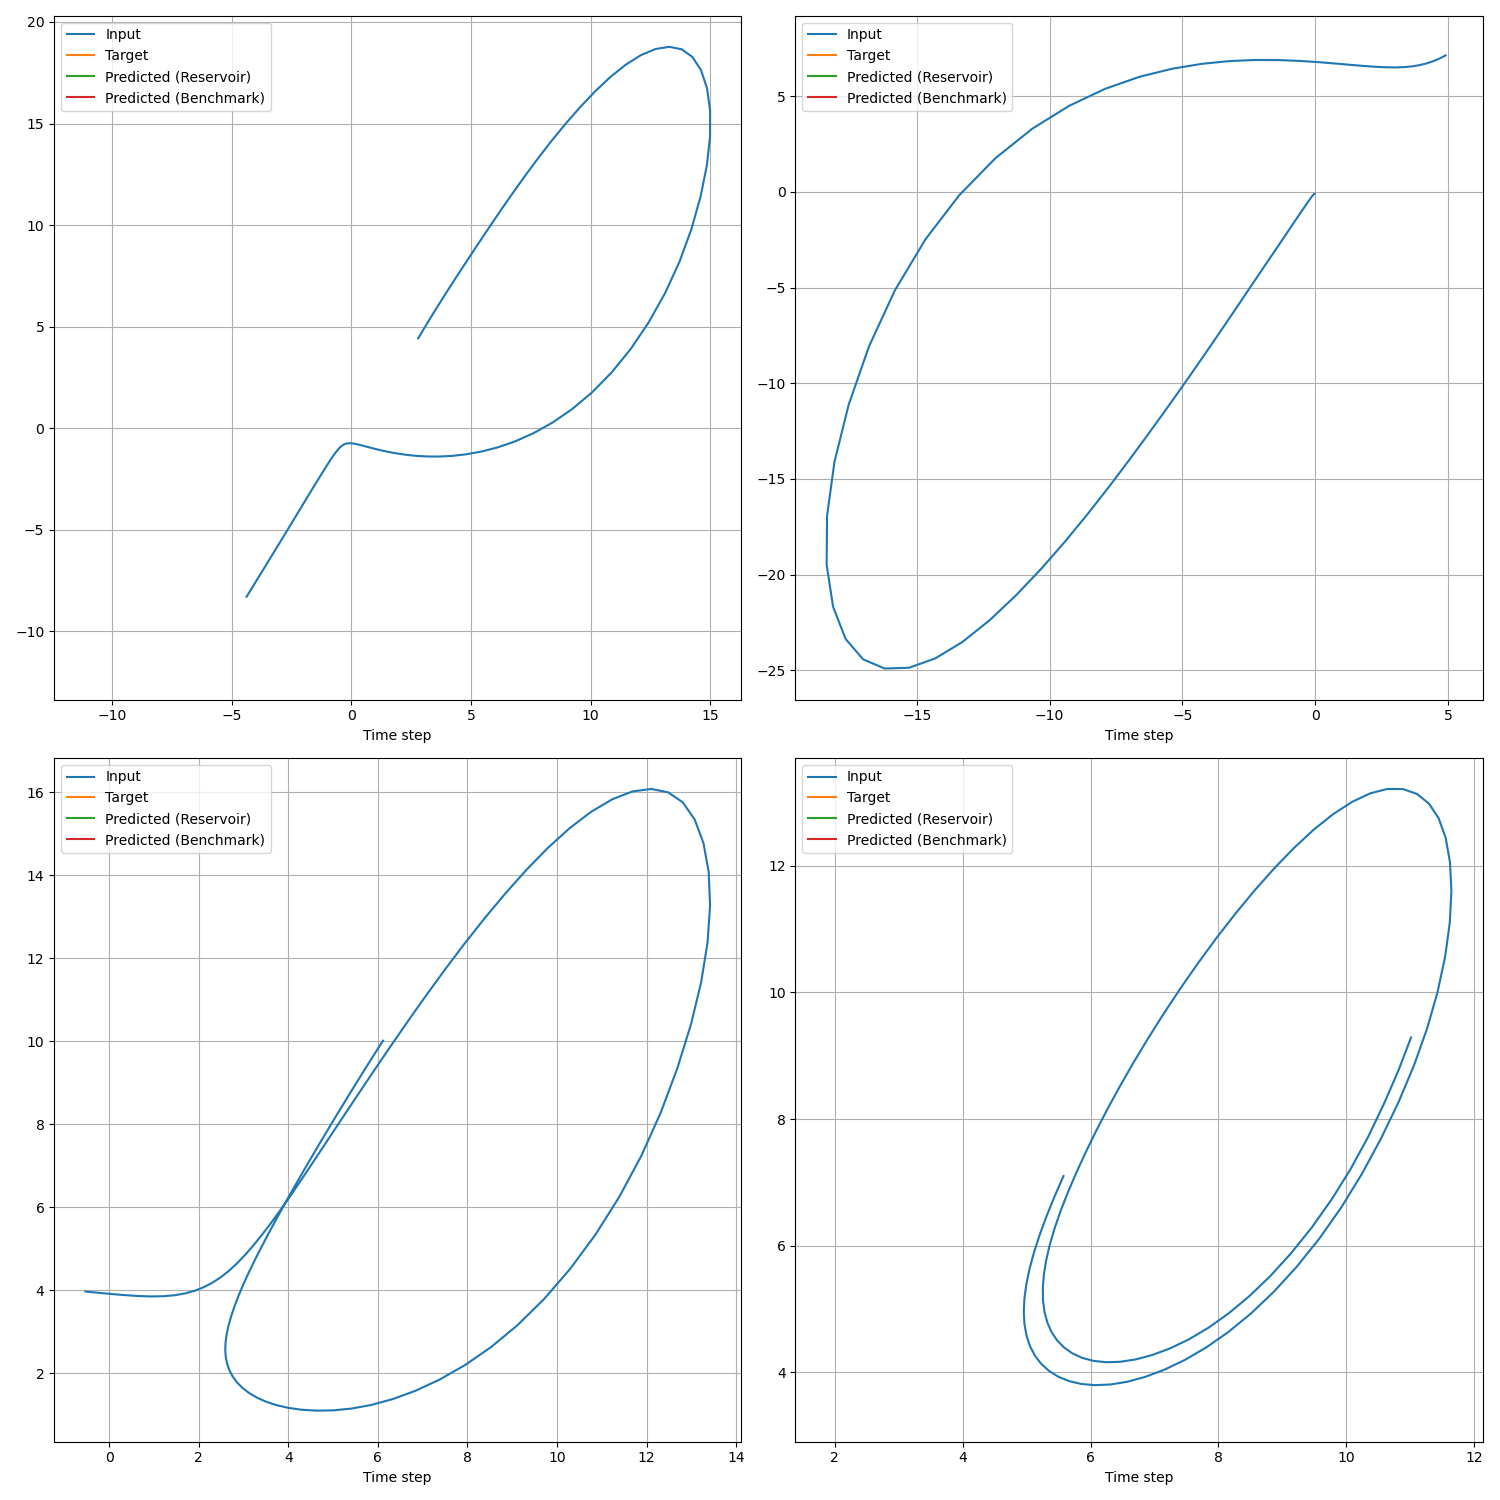
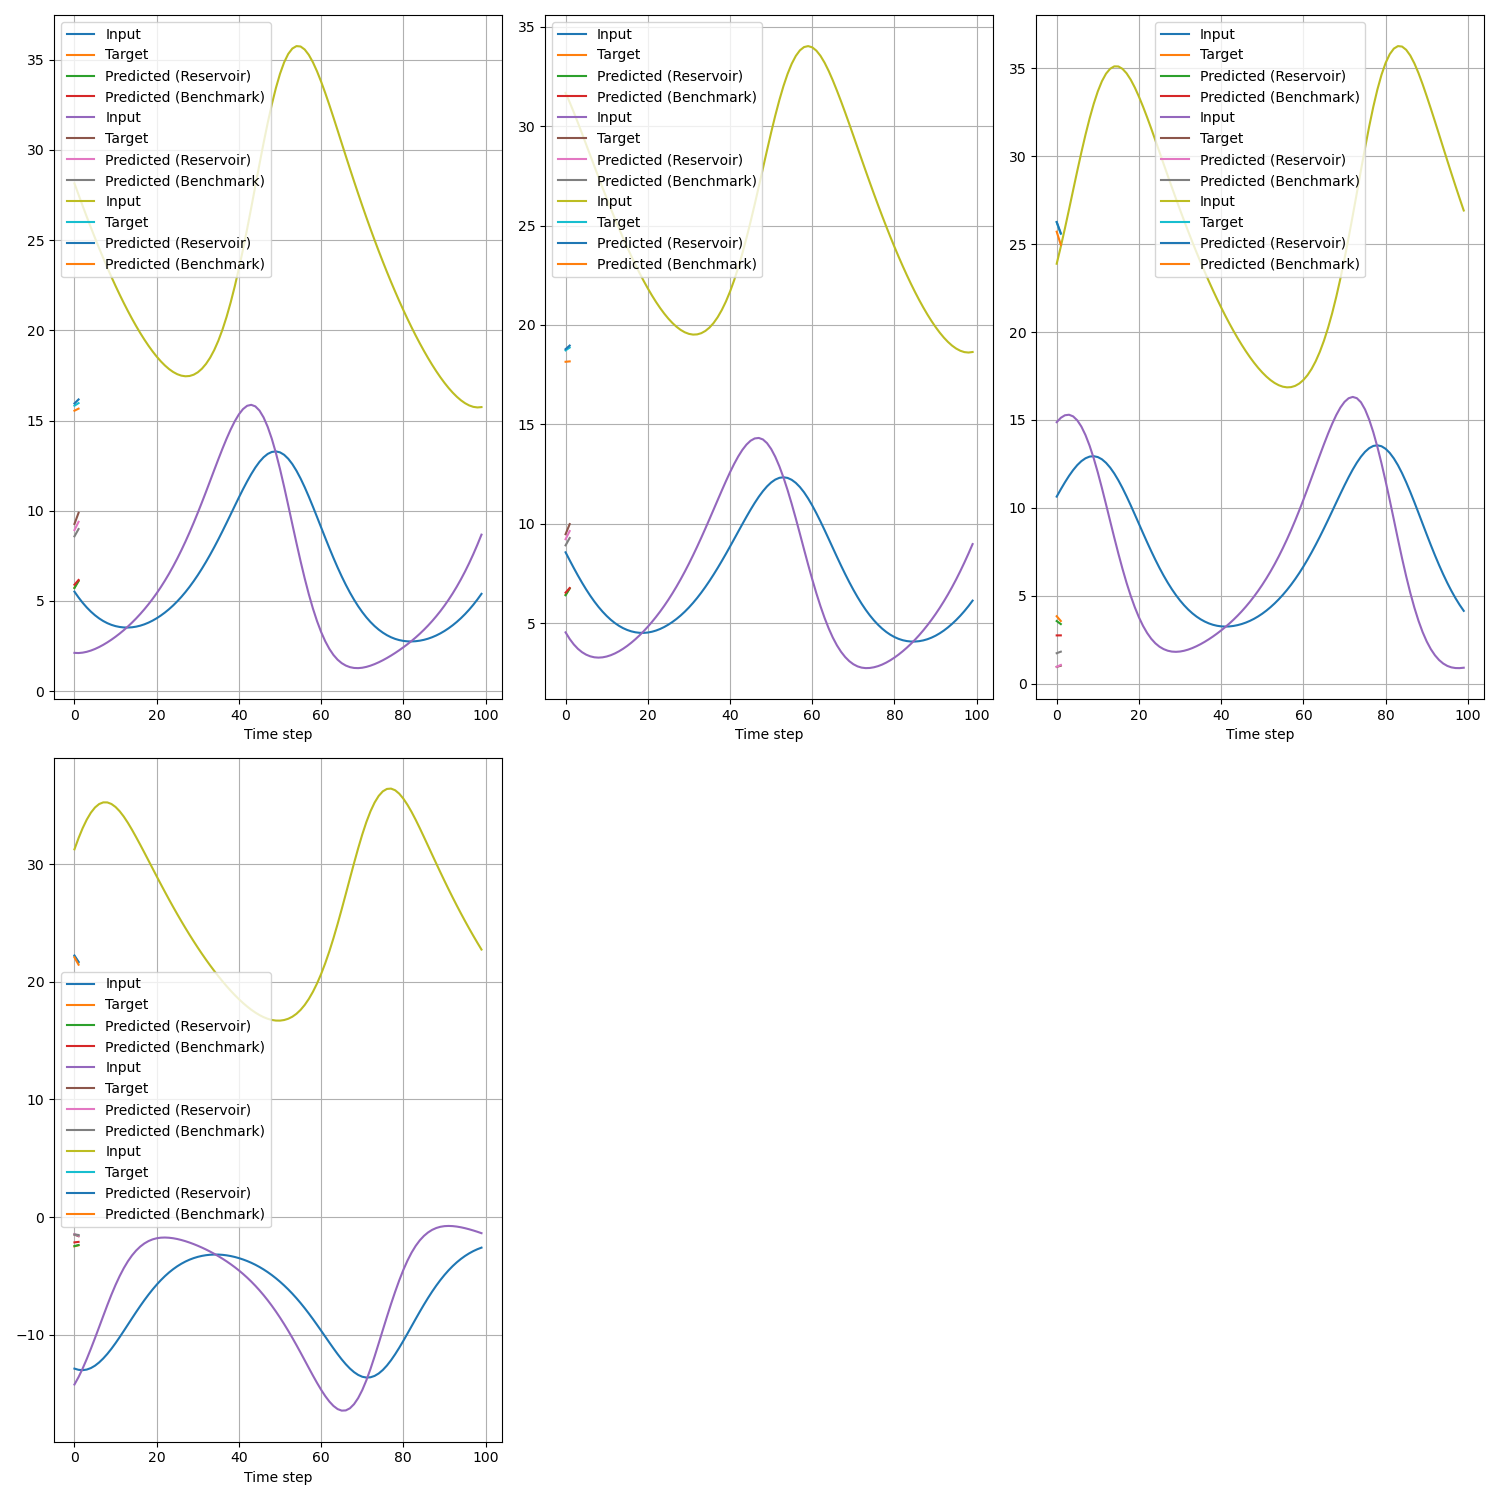
lorenz improvements

diff --git a/Lorenz/Lorenz.py b/Lorenz/Lorenz.py
@@ -35,7 +35,7 @@ print("Working on:", device)
 print(30*"-")
 
 # Define sequences length
-pred_len = 1
+pred_len = 2
 input_len = 100
 
 # Define the model parameters
@@ -45,7 +45,7 @@ num_epochs = 100
 ### LOAD DATA
 # Load the data
 print("Loading data...")
-train_t, train_dataloader, val_t, val_dataloader = loadData(pred_len, input_len, file="lorenz", train_samples=200, val_samples=20)
+train_t, train_dataloader, val_t, val_dataloader = loadData(pred_len, input_len, file="lorenz", train_samples=100, val_samples=10)
 print("Train batches:", len(train_dataloader))
 print("Train input sequences:", len(train_dataloader.dataset))
 print("Validation batches:", len(val_dataloader))
@@ -97,47 +97,6 @@ end = time.time()
 print('Time elapsed: ', end - start, "s")
 print(30*"-")
 
-# use the trained models to predict the validation data and compute the NRMSE
-# firstly load the data
-df = pd.read_csv("Data/lorenz_data_test.csv")
-data = torch.tensor(df[['x', 'y', 'z']].values)
-t = df['time'].values
-
-# split the data into warmup and test
-n = int(len(data) * 0.8)
-data_train, data_test = data[:n], data[n:]
-t_train, t_test = t[:n], t[n:]
-
-# unsqueeze the data
-data_train = data_train.unsqueeze(0)
-
-# evaluate the models
-model.pred_len = data_test.size(0)
-modelBenchmark.pred_len = data_test.size(0)
-
-outputs = model(data_train.to(device))
-outputs_benchmark = modelBenchmark(data_train.to(device))
-
-# plot the 3 variables separated
-plt.figure(figsize=(15, 15))
-for i in range(3):
-    plt.subplot(3, 1, i+1)
-    plt.plot(t_train, data_train[0, :, i].cpu(), label='Train')
-    plt.plot(t_test, data_test[:, i].cpu(), label='Test')
-    plt.plot(t_test, outputs[0, :, i].cpu().detach(), label='Predicted (Reservoir)')
-    plt.plot(t_test, outputs_benchmark[0, :, i].cpu().detach(), label='Predicted (Benchmark)')
-    plt.xlabel('Time')
-    plt.ylabel(f'Variable {i+1}')
-    plt.legend()
-    plt.grid()
-plt.tight_layout()
-if diego:
-    plt.savefig('D:/File_vari/Scuola/Universita/Bicocca/Magistrale/AI4ST/23-24/II_semester/AIModels/3_Body_Problem/Lorenz/Media/lorenz_generations.png')
-else:
-    plt.savefig('Media/lorenz_generations.png')
-plt.close()
-
-
 
 
 # Plotting the predictions
@@ -170,3 +129,51 @@ if diego:
 else:
     plt.savefig('Media/lorenz_prediction.png')
 plt.close()
+
+
+
+
+print("Predicting...")
+# use the trained models to predict the validation data and compute the NRMSE
+# firstly load the data
+if diego:
+    df = pd.read_csv("D:/File_vari/Scuola/Universita/Bicocca/Magistrale/AI4ST/23-24/II_semester/AIModels/3_Body_Problem/Lorenz/Data/lorenz_data_test.csv")
+else:
+    df = pd.read_csv("Data/lorenz_data_test.csv")
+data = torch.tensor(df[['x', 'y', 'z']].values).float()
+t = df['time'].values
+
+# split the data into warmup and test
+n = 100
+data_train, data_test = data[:n], data[n:n+100]
+t_train, t_test = t[:n], t[n:n+100]
+
+# unsqueeze the data
+data_train = data_train.unsqueeze(0)
+
+# evaluate the models
+model.pred_len = data_test.size(0)
+modelBenchmark.pred_len = data_test.size(0)
+
+outputs = model(data_train.to(device))
+outputs_benchmark = modelBenchmark(data_train.to(device))
+
+# plot the 3 variables separated
+plt.figure(figsize=(15, 15))
+for i in range(3):
+    plt.subplot(3, 1, i+1)
+    plt.plot(t_train, data_train[0, :, i].cpu(), label='Train')
+    plt.plot(t_test, data_test[:, i].cpu(), label='Test')
+    plt.plot(t_test, outputs[0, :, i].cpu().detach(), label='Predicted (Reservoir)')
+    plt.plot(t_test, outputs_benchmark[0, :, i].cpu().detach(), label='Predicted (Benchmark)')
+    plt.xlabel('Time')
+    plt.ylabel(f'Variable {i+1}')
+    plt.legend()
+    plt.grid()
+plt.tight_layout()
+if diego:
+    plt.savefig('D:/File_vari/Scuola/Universita/Bicocca/Magistrale/AI4ST/23-24/II_semester/AIModels/3_Body_Problem/Lorenz/Media/lorenz_generations.png')
+else:
+    plt.savefig('Media/lorenz_generations.png')
+plt.close()
+

diff --git a/Utils/DataLoader.py b/Utils/DataLoader.py
@@ -2,7 +2,7 @@ from sklearn.model_selection import train_test_split
 import pandas as pd
 import torch
 
-diego = False
+diego = True
 
 # load data function
 def loadData(pred_len, input_len, train_batch_size=1, val_batch_size=1, file="3BP", train_samples=100, val_samples=100):
